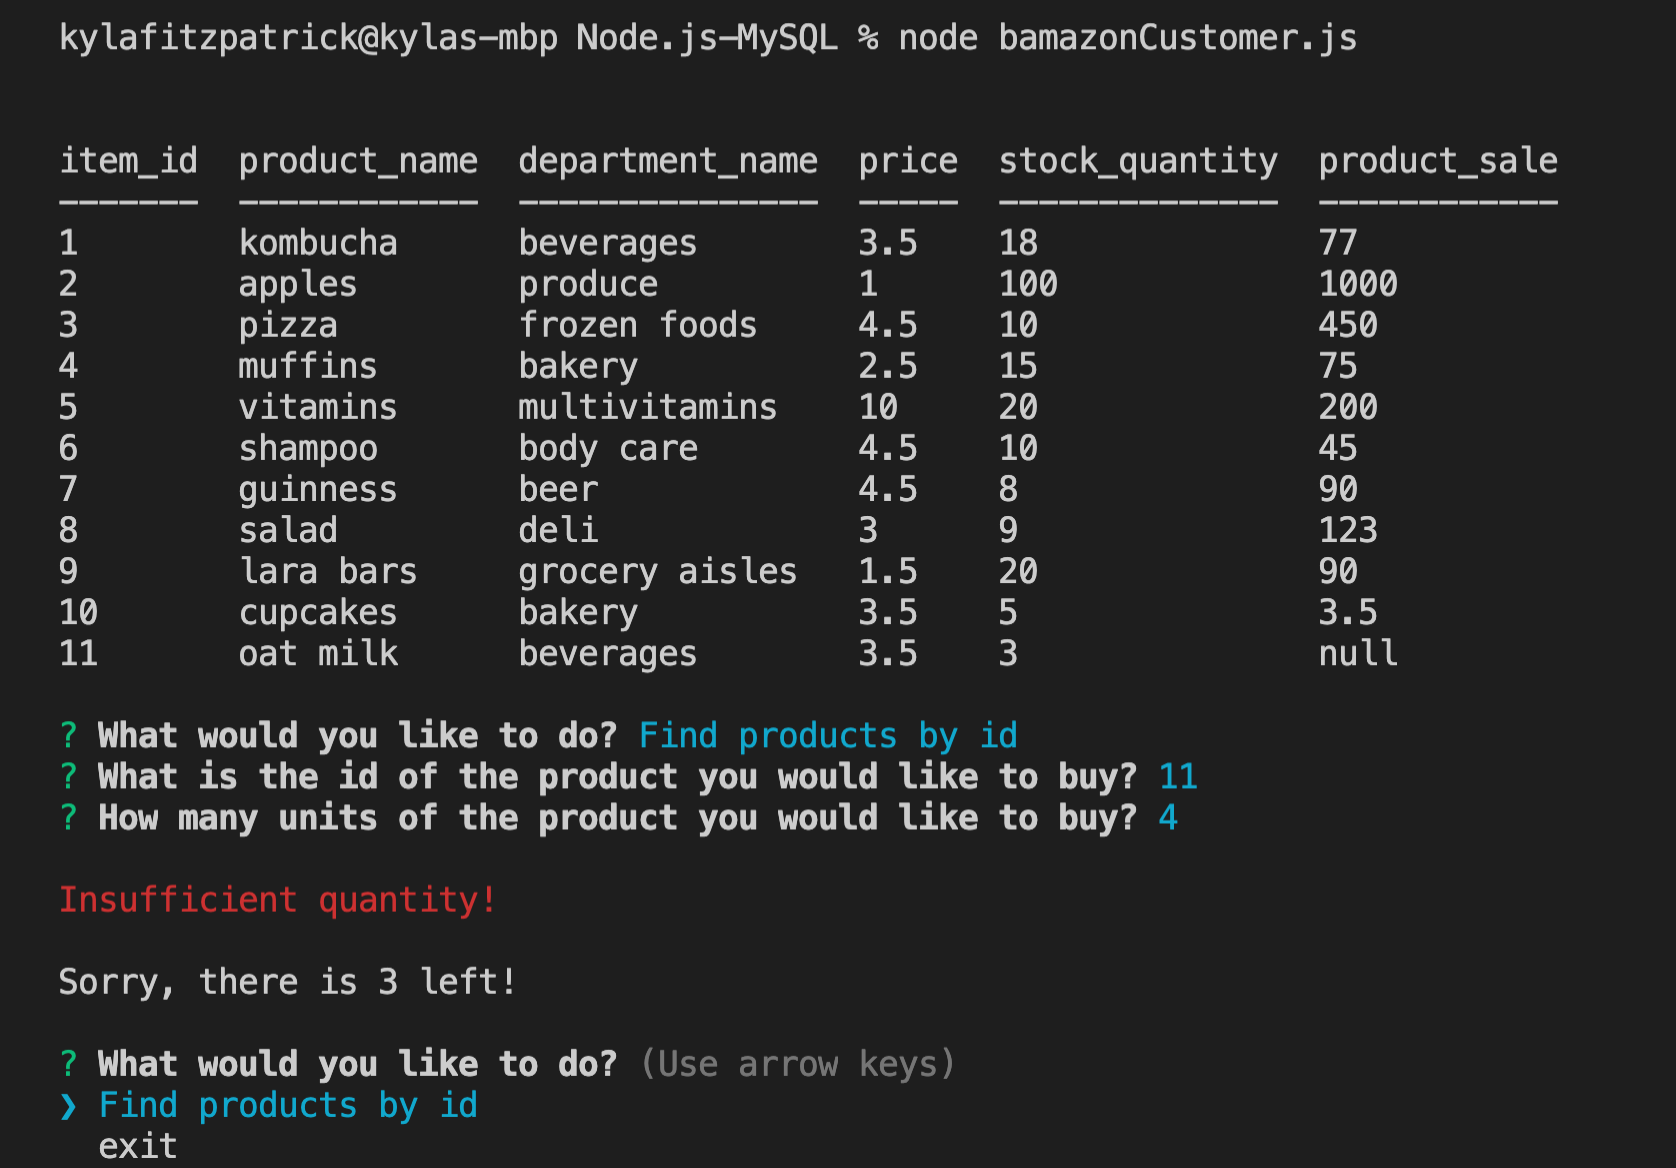
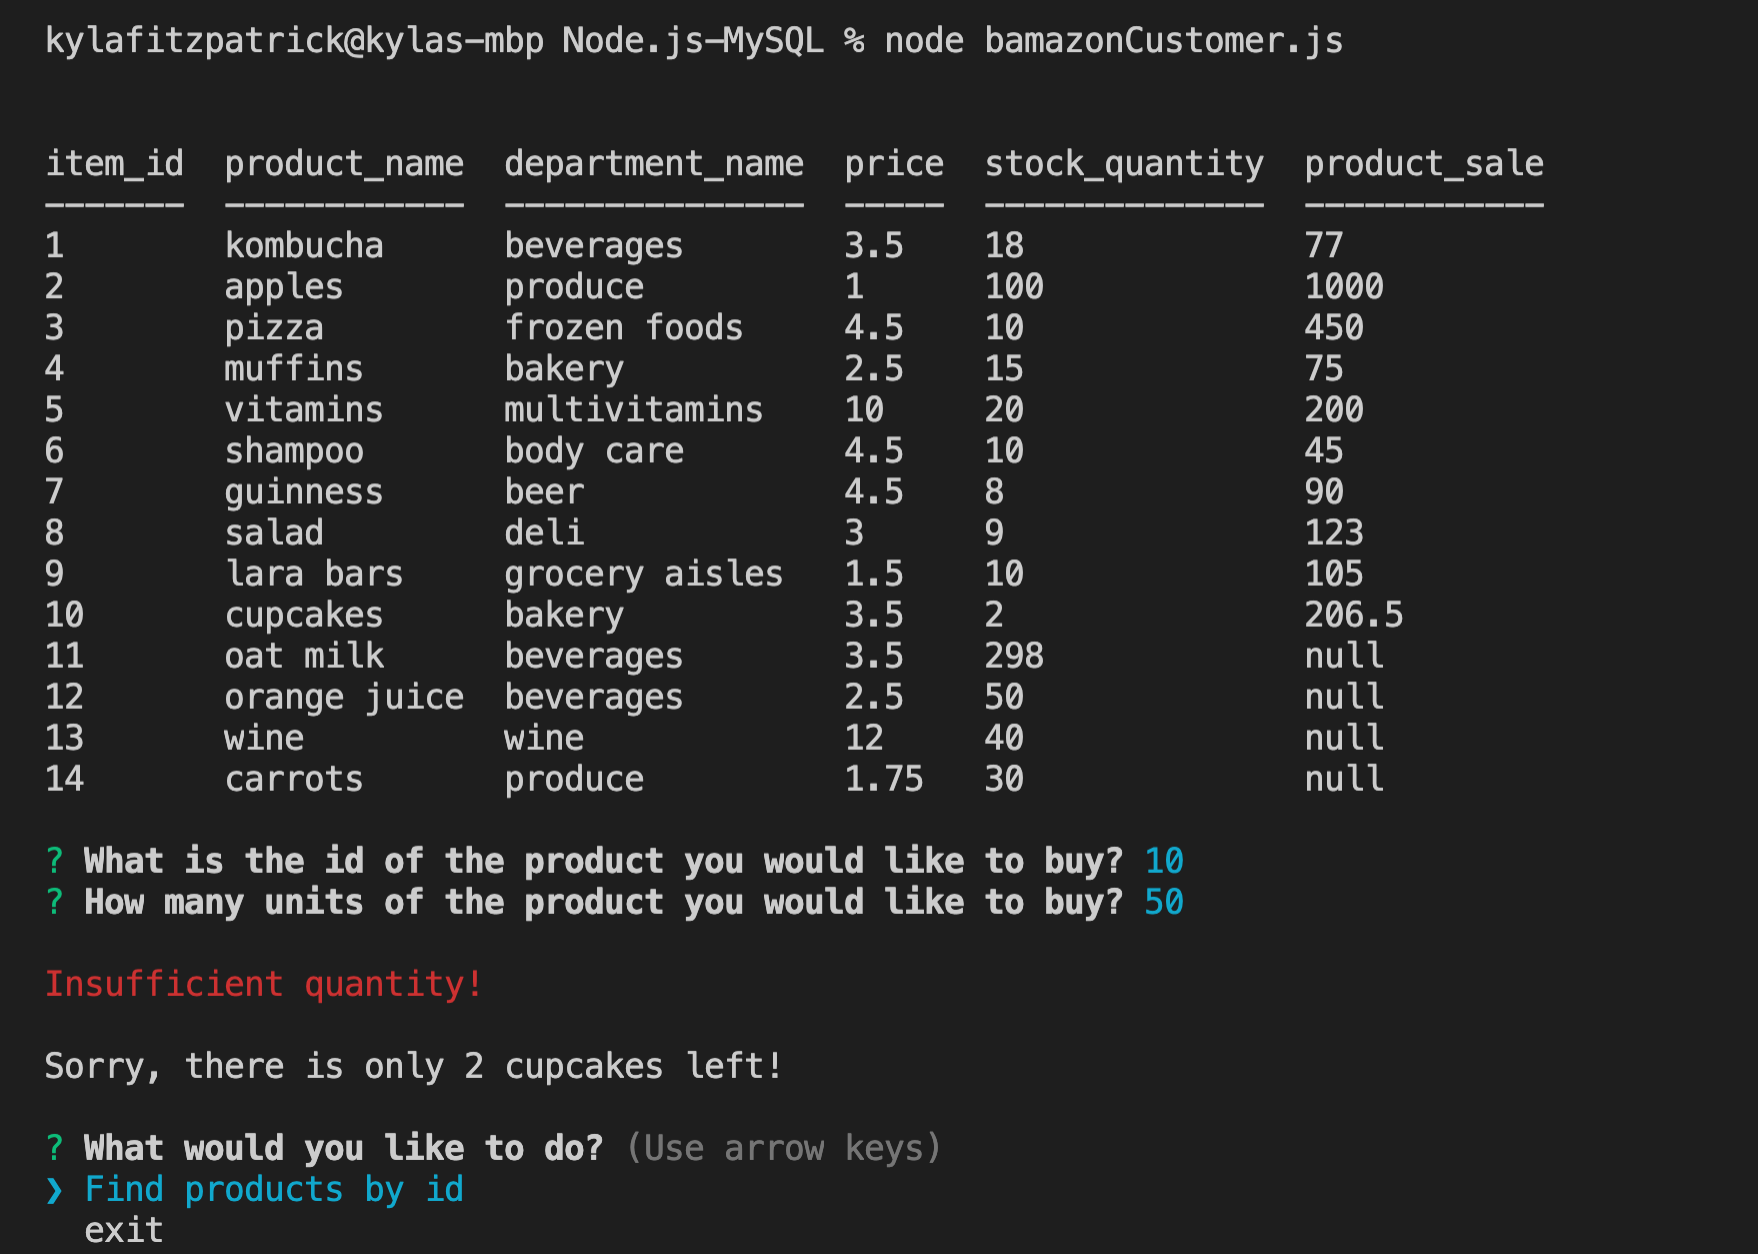
adding changes to customer and psuedocode as well as update readme

diff --git a/bamazonCustomer.js b/bamazonCustomer.js
@@ -10,17 +10,6 @@ connection.connect(function (err) {
     productsForSale();
 
 });
-function productsForSale() {
-    var query = "SELECT * FROM products";
-    // product_name, department_name, price, stock_quantity
-    connection.query(query, function (err, res) {
-        if (err) throw err;
-        console.log("\n")
-        console.table(res)
-        runSearch();
-    })
-}
-
 function runSearch() {
     inquirer
         .prompt({
@@ -35,11 +24,8 @@ function runSearch() {
         .then(function (answer) {
             switch (answer.action) {
                 case "Find products by id":
-                    idSearch();
-                    break;
-
-                case "Find units of product":
-                    unitsSearch();
+                    productsForSale()
+                    // idSearch();
                     break;
 
                 case "exit":
@@ -48,7 +34,17 @@ function runSearch() {
             }
         });
 }
-
+//products table
+function productsForSale() {
+    var query = "SELECT * FROM products";
+    connection.query(query, function (err, res) {
+        if (err) throw err;
+        console.log("\n")
+        console.table(res)
+        idSearch();
+    })
+}
+//search product by id and enter the amount of units
 function idSearch() {
     inquirer
         .prompt([
@@ -67,25 +63,26 @@ function idSearch() {
             connection.query("SELECT item_id, product_name, stock_quantity, price FROM products WHERE ?",
                 {item_id: answer.id}, function (err, res) {
                     if (err) throw err;
+                    //if units is greater than stock insufficient
                     if (answer.units > res[0].stock_quantity) {
                         console.log(`\x1b[31m%s\x1b[0m`, `\nInsufficient quantity!`)
-                        console.log(`\nSorry, there is ${res[0].stock_quantity} left!\n`)
+                        console.log(`\nSorry, there is only ${res[0].stock_quantity} ${res[0].product_name} left!\n`)
                     }
+                    //if units is equal or less than stock success
                     else {
                         console.log(`\x1b[32m%s\x1b[0m`, `\nSuccess!`)
-                        console.log(`\nYou chose ${answer.units} ${res[0].product_name}. Your total is: $ ${answer.units * res[0].price}\n`);
+                        console.log(`\nYour total is: $${answer.units * res[0].price}\n`);
                         var quantityLeft = res[0].stock_quantity - answer.units;
                         // console.log(quantityLeft);
                         var productSale = answer.units * res[0].price;
                         // console.log(productSale);
-                       
+                       //set the reminaing quantity in database
                         connection.query(`UPDATE products SET stock_quantity=${quantityLeft}, product_sale= product_sale + ${productSale} WHERE item_id=${answer.id}`, function(err, res) {
                             if (err) throw err;
              
                     });
                 }
                     runSearch();
-
                 }
             );
         });

diff --git a/bamazonSupervisor.js b/bamazonSupervisor.js
@@ -9,7 +9,7 @@ connection.connect(function (err) {
     productSalesByDepartment();
 
 });
-
+//prompt for selection
 function runSearch() {
     inquirer
       .prompt({

diff --git a/bamazonManager.js b/bamazonManager.js
@@ -9,7 +9,7 @@ connection.connect(function (err) {
     productsForSale();
 
 });
-
+//prompt for selection
 function runSearch() {
     inquirer
       .prompt({
